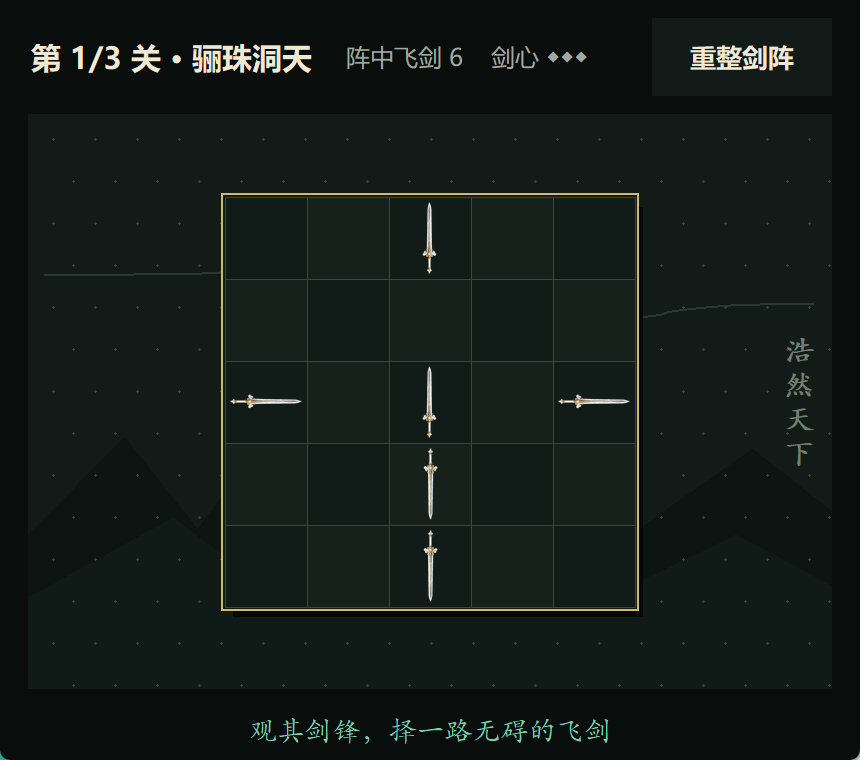
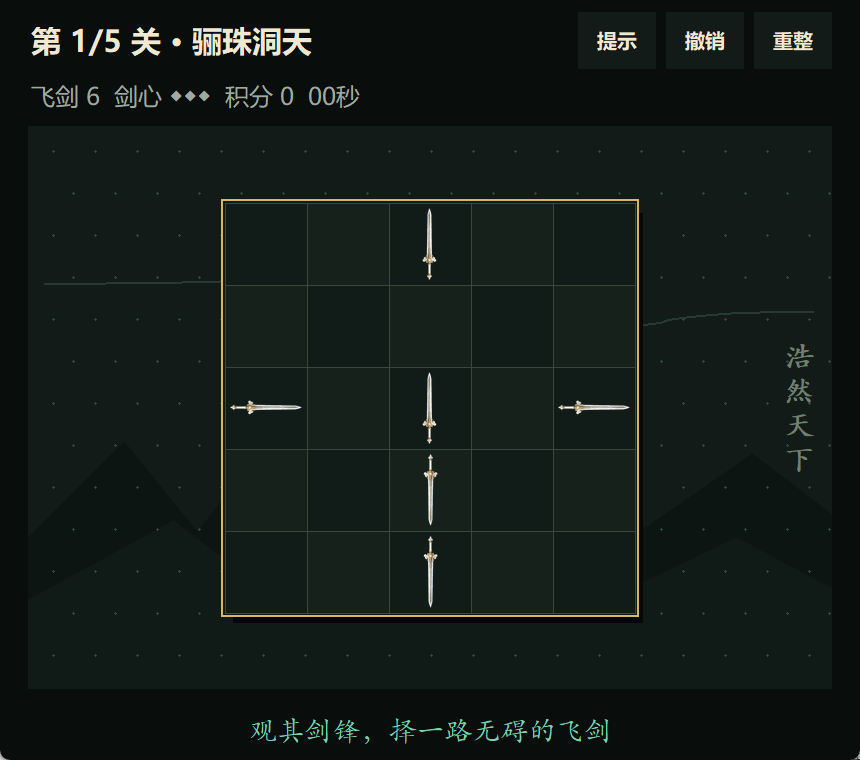
docs: 更新扩展功能说明与测试截图

diff --git a/README.md b/README.md
@@ -8,12 +8,16 @@
 - 四方向箭头与同行/同列路径检测；
 - 上、下、左、右四方向白玉金纹飞剑图片，剑尖明确表示移动方向且没有圆形底座；
 - 开始界面使用用户提供的《剑来》人物海报，并通过暗化延展适配横向窗口；
-- “骊珠洞天、山水问剑、剑气长城”三境主题与水墨山河界面；
+- “骊珠洞天、山水问剑、剑气长城、倒悬山、十四境”五境主题与水墨山河界面；
 - 带加速、三道剑气拖尾和光点的飞出动画，以及带冲刺、火花、冲击环和回弹的碰撞反馈；
-- 三个经过可解性测试的关卡；
-- 剩余箭头、剩余失误次数和当前关卡实时显示；
+- 五个经过状态搜索验证的可解关卡，并支持已解锁关卡选择；
+- 剩余飞剑、剑心、当前关卡、积分和计时实时显示；
+- 过关后给出一至三星评价，并保存关卡解锁进度和最佳星级；
+- 提示可安全飞出的飞剑，支持按钮或 `H` 键；
+- 撤销上一次有效操作，恢复飞剑、剑心和积分，支持按钮或 `Ctrl+Z`；
+- Windows 下带有飞出、碰撞和过关提示音；
 - 关卡切换、失败重试、当前关卡重开和整局重玩；
-- 7 项自动化单元测试覆盖核心规则与关卡可解性。
+- 12 项自动化单元测试覆盖核心规则、扩展功能与关卡可解性。
 
 ## 开发与运行环境
 
@@ -37,7 +41,9 @@ python main.py
 2. 观察飞剑的剑尖朝向；若该方向直到棋盘边缘都没有其他飞剑，即可点击使其破阵飞出。
 3. 点击被阻挡的飞剑会扣除一点剑心。
 4. 清空当前棋盘进入下一关；三次失误后可重新挑战。
-5. 游戏中按 `R` 或点击“重新开始”可重置当前关卡。
+5. 点击“提示”或按 `H` 可高亮一支安全飞剑。
+6. 点击“撤销”或按 `Ctrl+Z` 可撤销上一步；按 `R` 可重置当前关卡。
+7. 从开始页进入“境界选择”，可重玩已经解锁的关卡。
 
 ## 测试
 
@@ -45,7 +51,7 @@ python main.py
 python -m unittest discover -s tests -v
 ```
 
-测试覆盖：无阻挡飞出、阻挡碰撞、边界处理、过关切换、失败判定、重新开始以及全部关卡可解性。
+测试覆盖：无阻挡飞出、阻挡碰撞、边界处理、过关切换、失败判定、重新开始、提示、撤销、关卡选择、存档容错以及全部关卡可解性。
 
 开发环境下还可以运行 `python tools/smoke_gui.py`，自动点击阻挡箭头并验证碰撞动画、回弹和失误次数。
 
@@ -56,8 +62,9 @@ arrow_escape_game/
 ├─ assets/             # 白玉金纹飞剑源图与四方向透明 PNG
 ├─ arrow_game/
 │  ├─ app.py          # Tkinter 界面、动画与交互
-│  ├─ levels.py       # 三个原创关卡
-│  └─ model.py        # 可独立测试的游戏规则
+│  ├─ levels.py       # 五个原创关卡
+│  ├─ model.py        # 可独立测试的游戏规则
+│  └─ progress.py     # 解锁进度与最佳星级存档
 ├─ tests/
 │  └─ test_game_model.py
 ├─ screenshots/       # 博客展示图片

diff --git a/TEST_RESULTS.md b/TEST_RESULTS.md
@@ -3,7 +3,7 @@
 - 最近复测日期：2026-09-18
 - Python：3.13.0
 - 命令：`python -m unittest discover -s tests -v`
-- 结果：7 项全部通过，耗时 0.122 秒
+- 结果：12 项全部通过，耗时 23.957 秒
 
 ```text
 test_t01_unblocked_arrow_disappears ... ok
@@ -12,16 +12,21 @@ test_t03_boundary_arrow_exits_normally ... ok
 test_t04_clear_level_and_enter_next ... ok
 test_t05_misses_exhausted_causes_game_over ... ok
 test_t06_restart_restores_arrows_and_misses ... ok
+test_hint_returns_an_unblocked_arrow ... ok
+test_undo_restores_arrow_misses_and_score ... ok
+test_level_selection_loads_requested_level ... ok
 test_all_levels_are_valid_and_solvable ... ok
+test_progress_can_be_saved_and_loaded ... ok
+test_broken_progress_file_is_safe ... ok
 
-Ran 7 tests in 0.122s
+Ran 12 tests in 23.957s
 OK
 ```
 
 此外，已在 Windows 桌面实际启动 Tkinter 程序，并检查开始界面、第一关游戏界面和过关界面；对应截图位于 `screenshots/`。
 
-GUI 动画专项冒烟测试：先自动点击第一关被阻挡的向右飞剑，确认飞剑回弹后仍在原位、剑心由 3 减为 2；再点击无阻挡飞剑，确认它加速飞出棋盘并从状态中消失。图片飞剑版已在 Windows 桌面实际启动并完成视觉检查。测试输出：
+GUI 动画专项冒烟测试：在加入提示、撤销、计时、积分、星级和关卡选择后，先自动点击第一关被阻挡的向右飞剑，确认飞剑回弹后仍在原位、剑心由 3 减为 2；再点击无阻挡飞剑，确认它加速飞出棋盘并从状态中消失。图片飞剑版已在 Windows 桌面实际启动并完成视觉检查。测试输出：
 
 ```text
-GUI smoke test OK: collision bounce and accelerated flying-sword exit both finished
+GUI smoke test OK: collision, flight, score, undo and hint all finished
 ```
